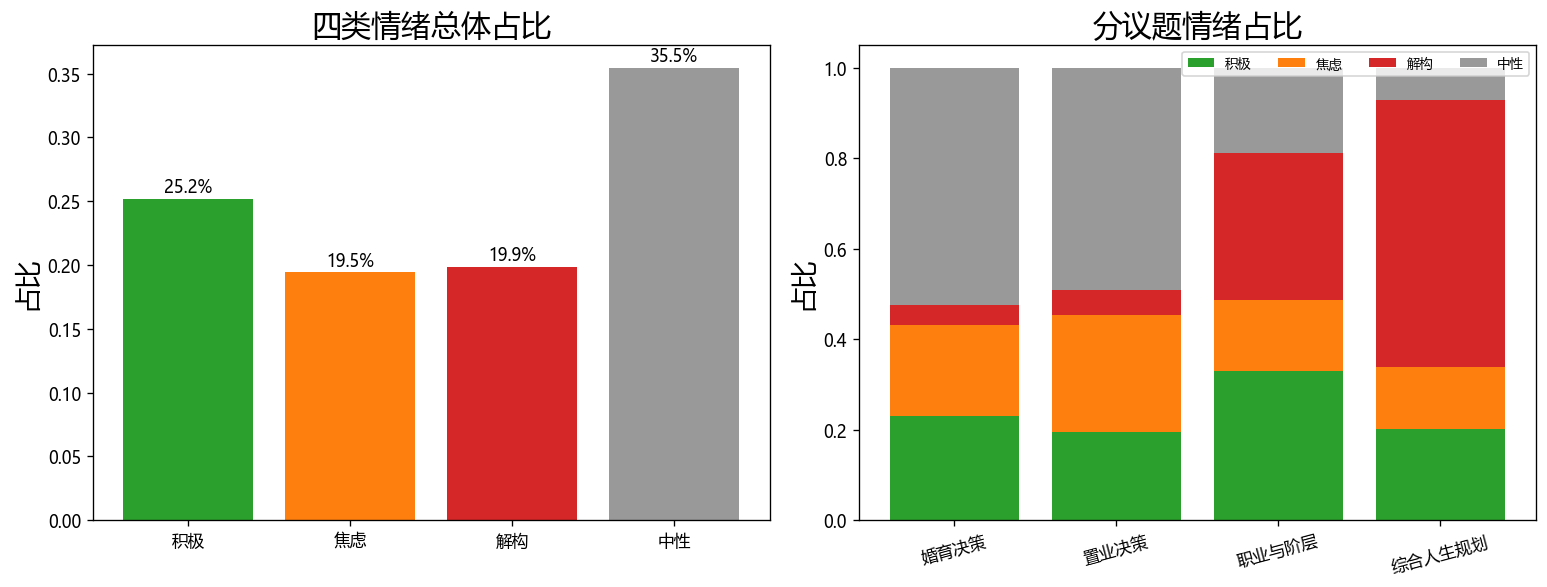
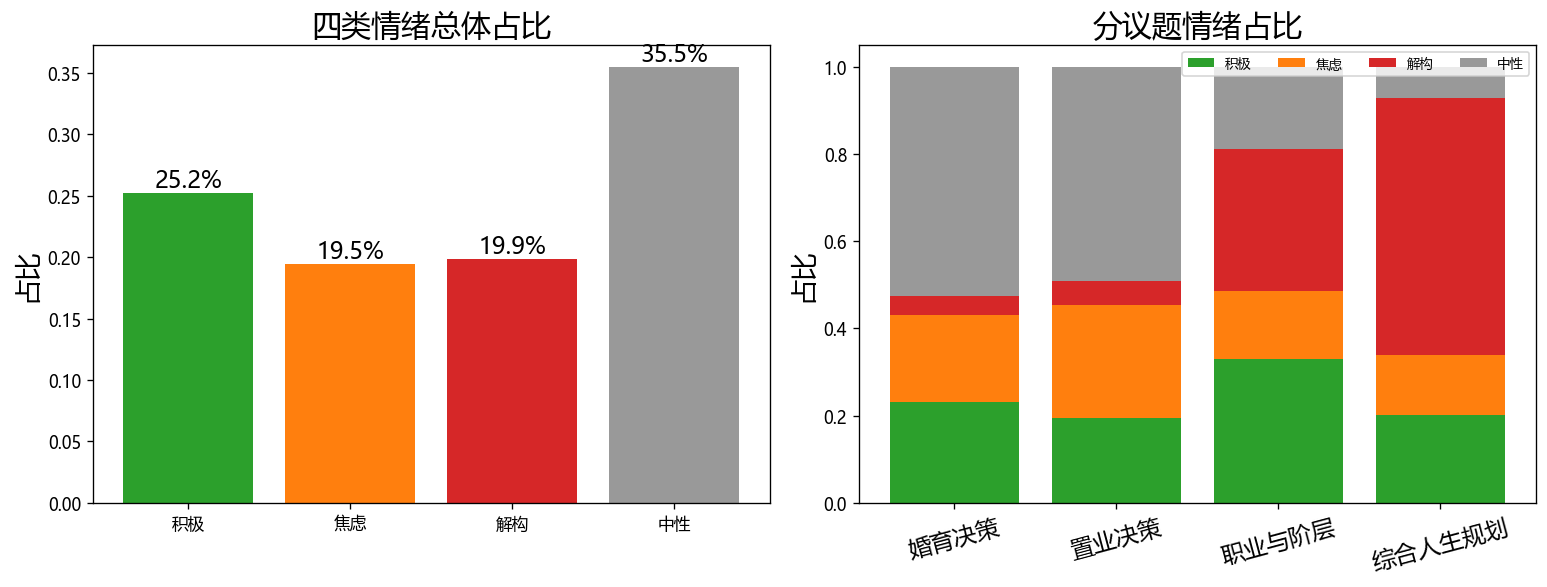
modify picture

diff --git a/analysis/rq1_descriptive.py b/analysis/rq1_descriptive.py
@@ -49,7 +49,7 @@ def fig_emotion_dist(df: pd.DataFrame) -> None:
     ax1.set_title("四类情绪总体占比",fontsize=18)
     ax1.set_ylabel("占比",fontsize=16)
     for i, v in enumerate(overall.values):
-        ax1.text(i, v + 0.005, f"{v:.1%}", ha="center")
+        ax1.text(i, v + 0.005, f"{v:.1%}", ha="center",fontsize=14)
 
     # 分议题（堆叠）
     by_topic = (
@@ -64,7 +64,7 @@ def fig_emotion_dist(df: pd.DataFrame) -> None:
     ax2.set_title("分议题情绪占比",fontsize=18)
     ax2.set_ylabel("占比",fontsize=16)
     ax2.legend(loc="upper right", ncol=4, fontsize=8)
-    plt.setp(ax2.get_xticklabels(), rotation=15)
+    plt.setp(ax2.get_xticklabels(), rotation=15,fontsize=14)
 
     fig.tight_layout()
     path = os.path.join(FIGURES_DIR, "emotion_dist.png")